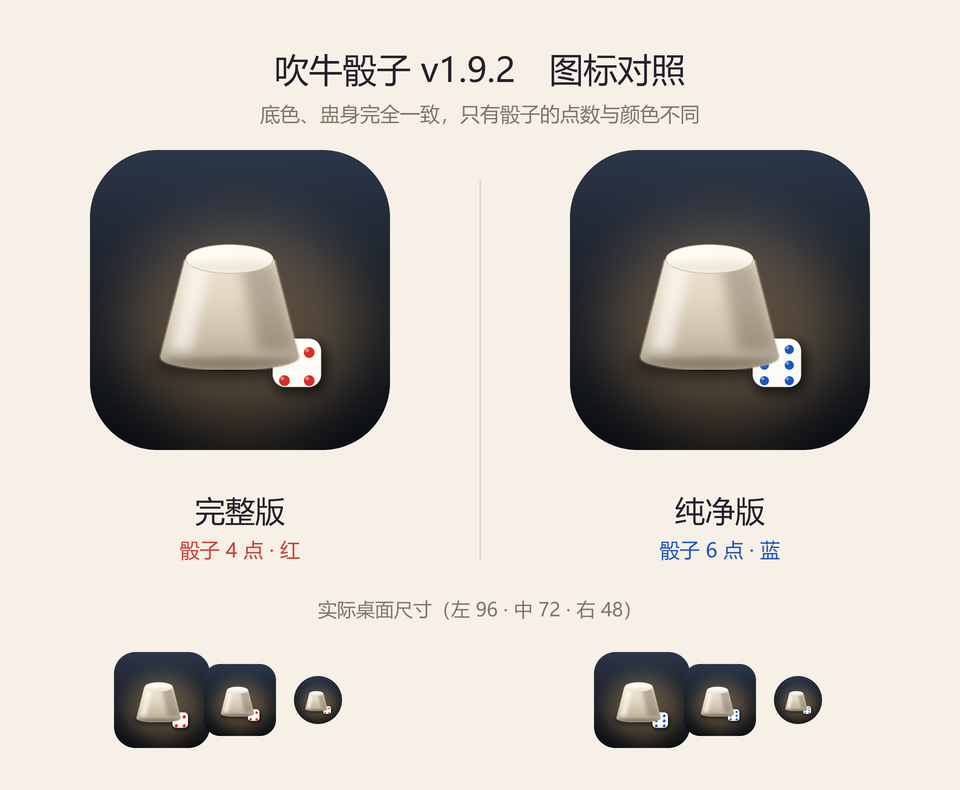
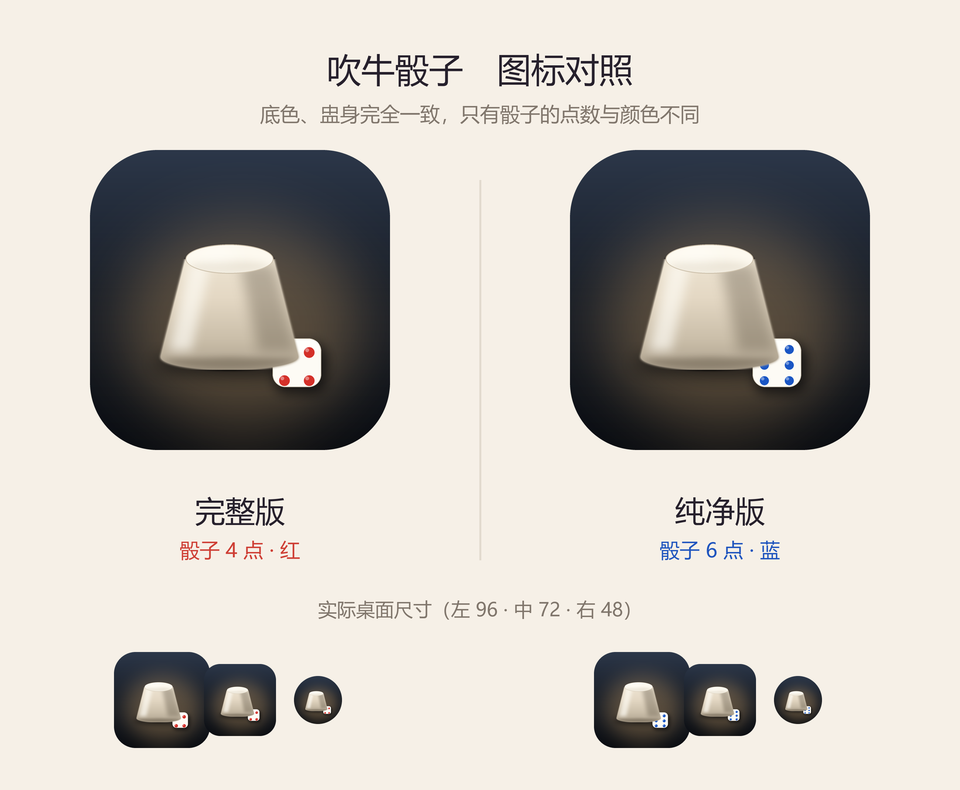
docs: 修正 NOTE 块的渲染（空行分隔），图标对照图去掉写死的 v1.9.2

Changed region(s): [[0.2812, 0.0608, 0.7188, 0.1215]]

diff --git a/README.md b/README.md
@@ -81,7 +81,7 @@
 | **APK** | 本仓库 **Releases** 里两个包：`liars-dice-<版本>.apk`（完整版）、`liars-dice-clean-<版本>.apk`（纯净版）。传到安卓手机上点开，首次安装允许「未知来源」即可 |
 
 > 签名证书是固定的（`keystore/`），后续版本可以直接覆盖安装，不用卸载。
->
+
 > [!NOTE]
 > **Release 里的 APK 停在 `1.10.22`**，比网页版旧：那一版没有联机，隐藏功能的入口也还是老办法（直接长按标题）。
 > 想玩到最新的、包括联机，直接用网页版 —— 加到桌面之后用起来跟 APK 没区别。
